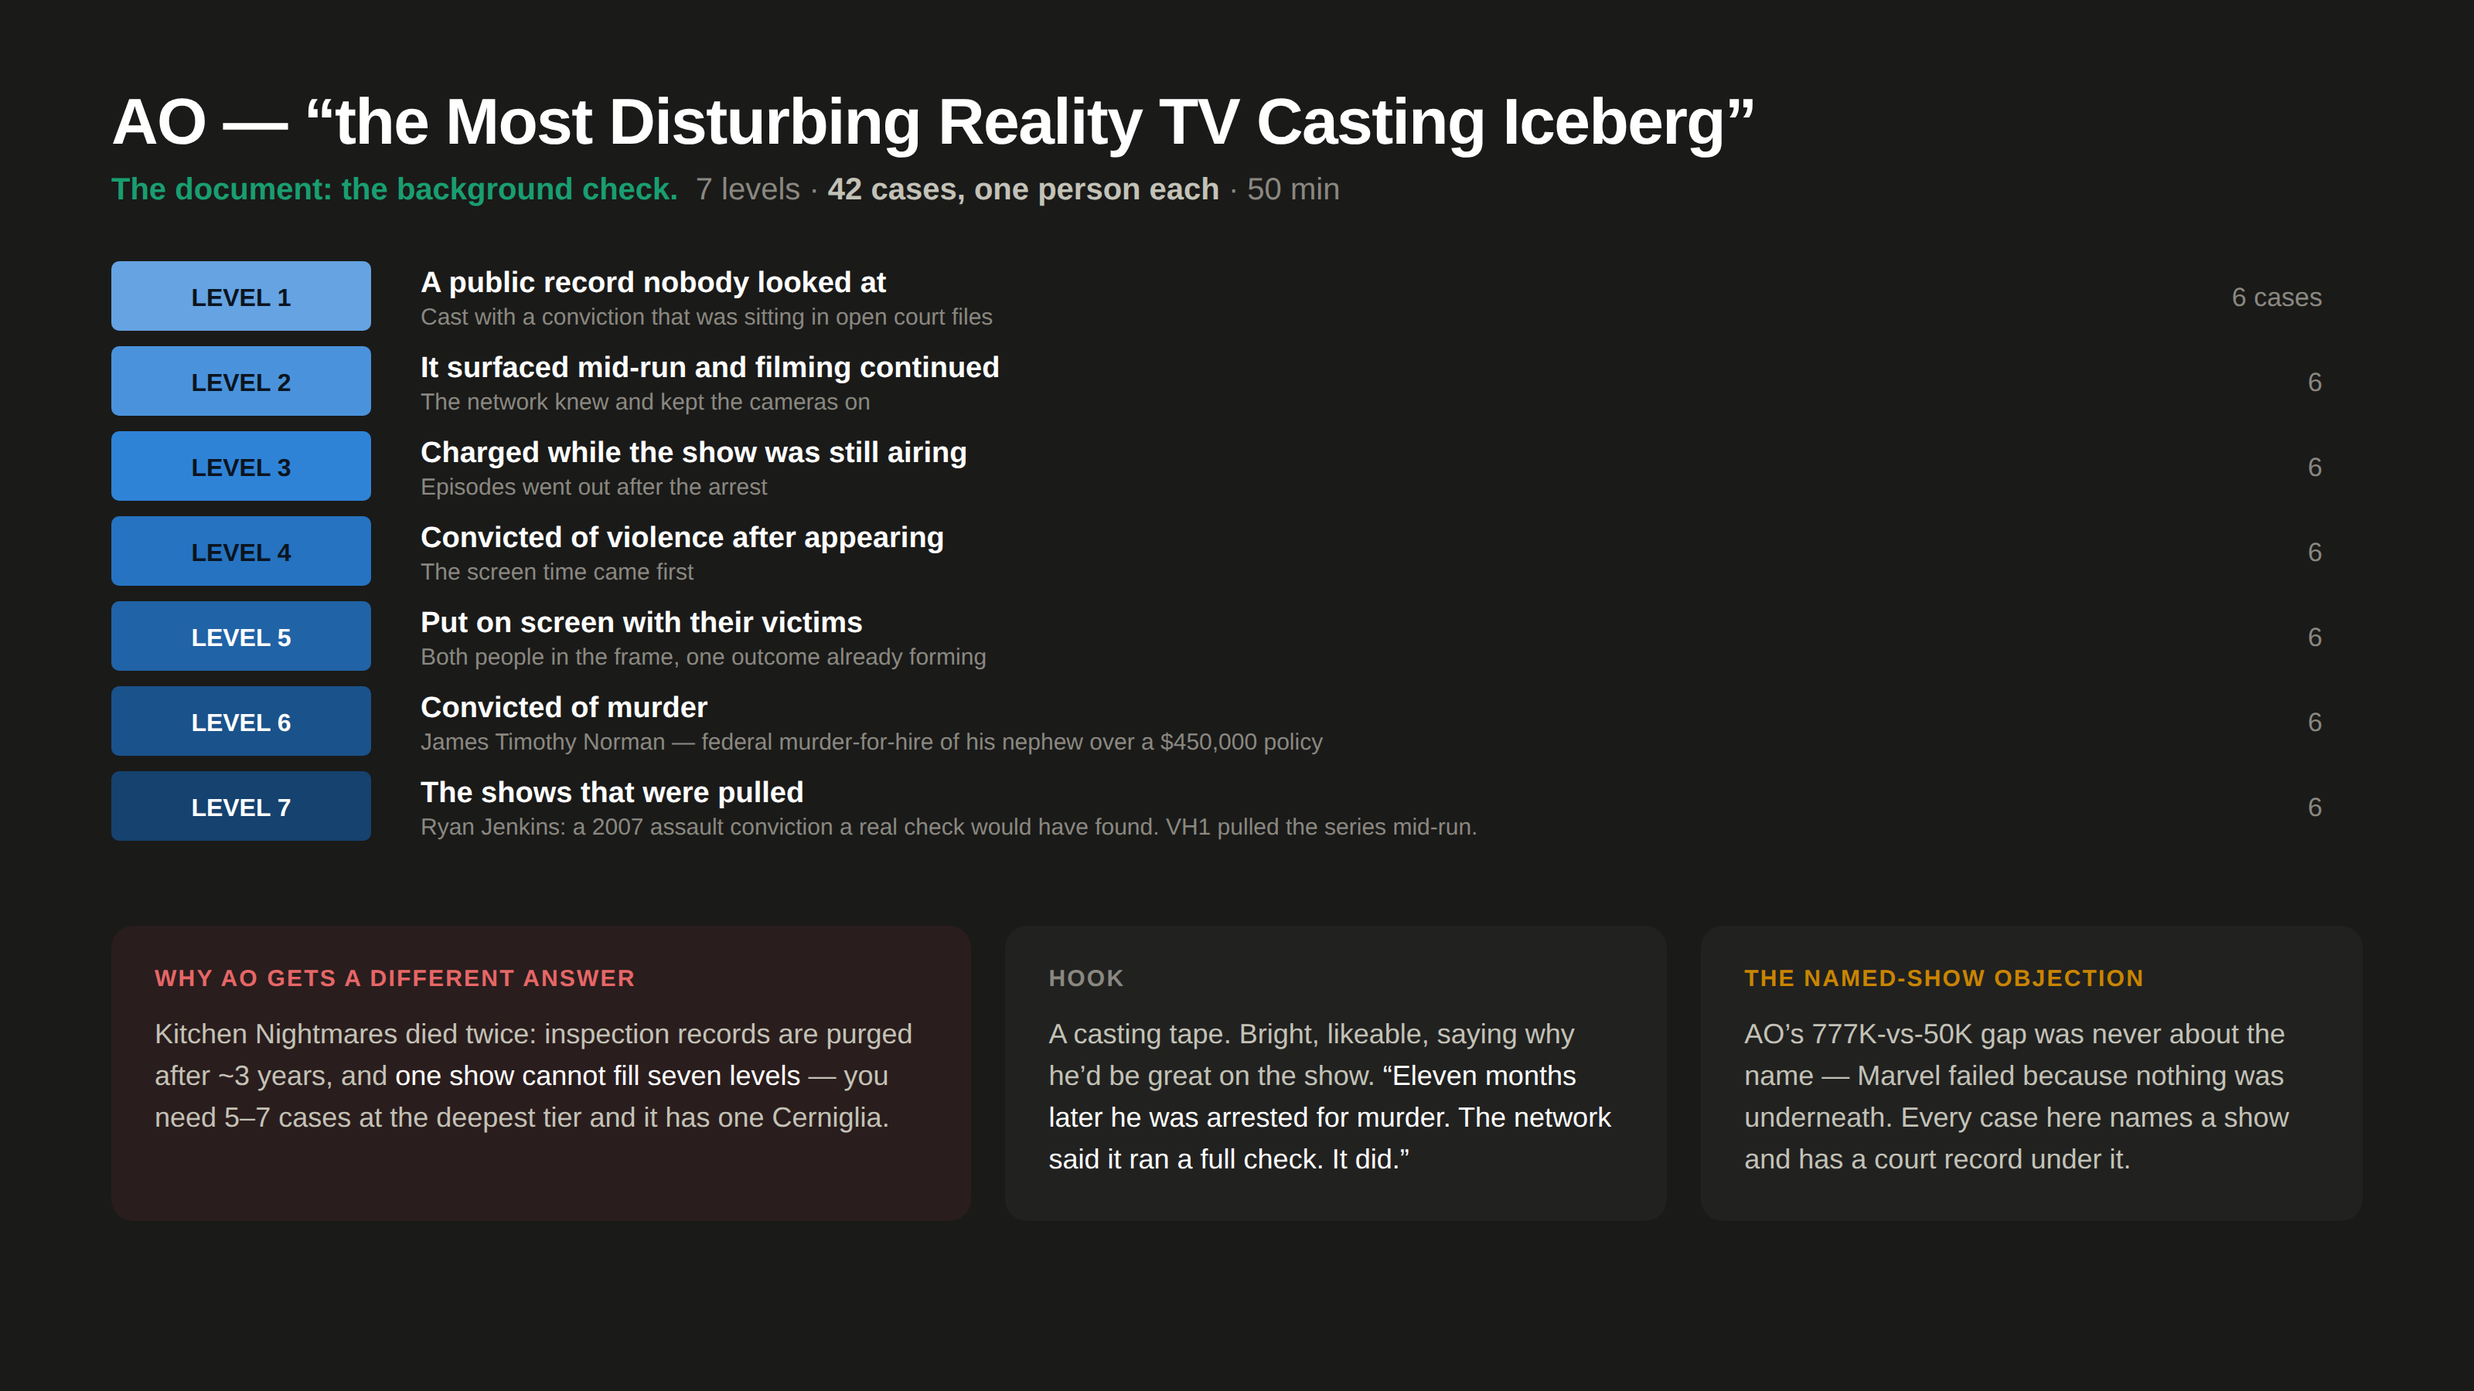
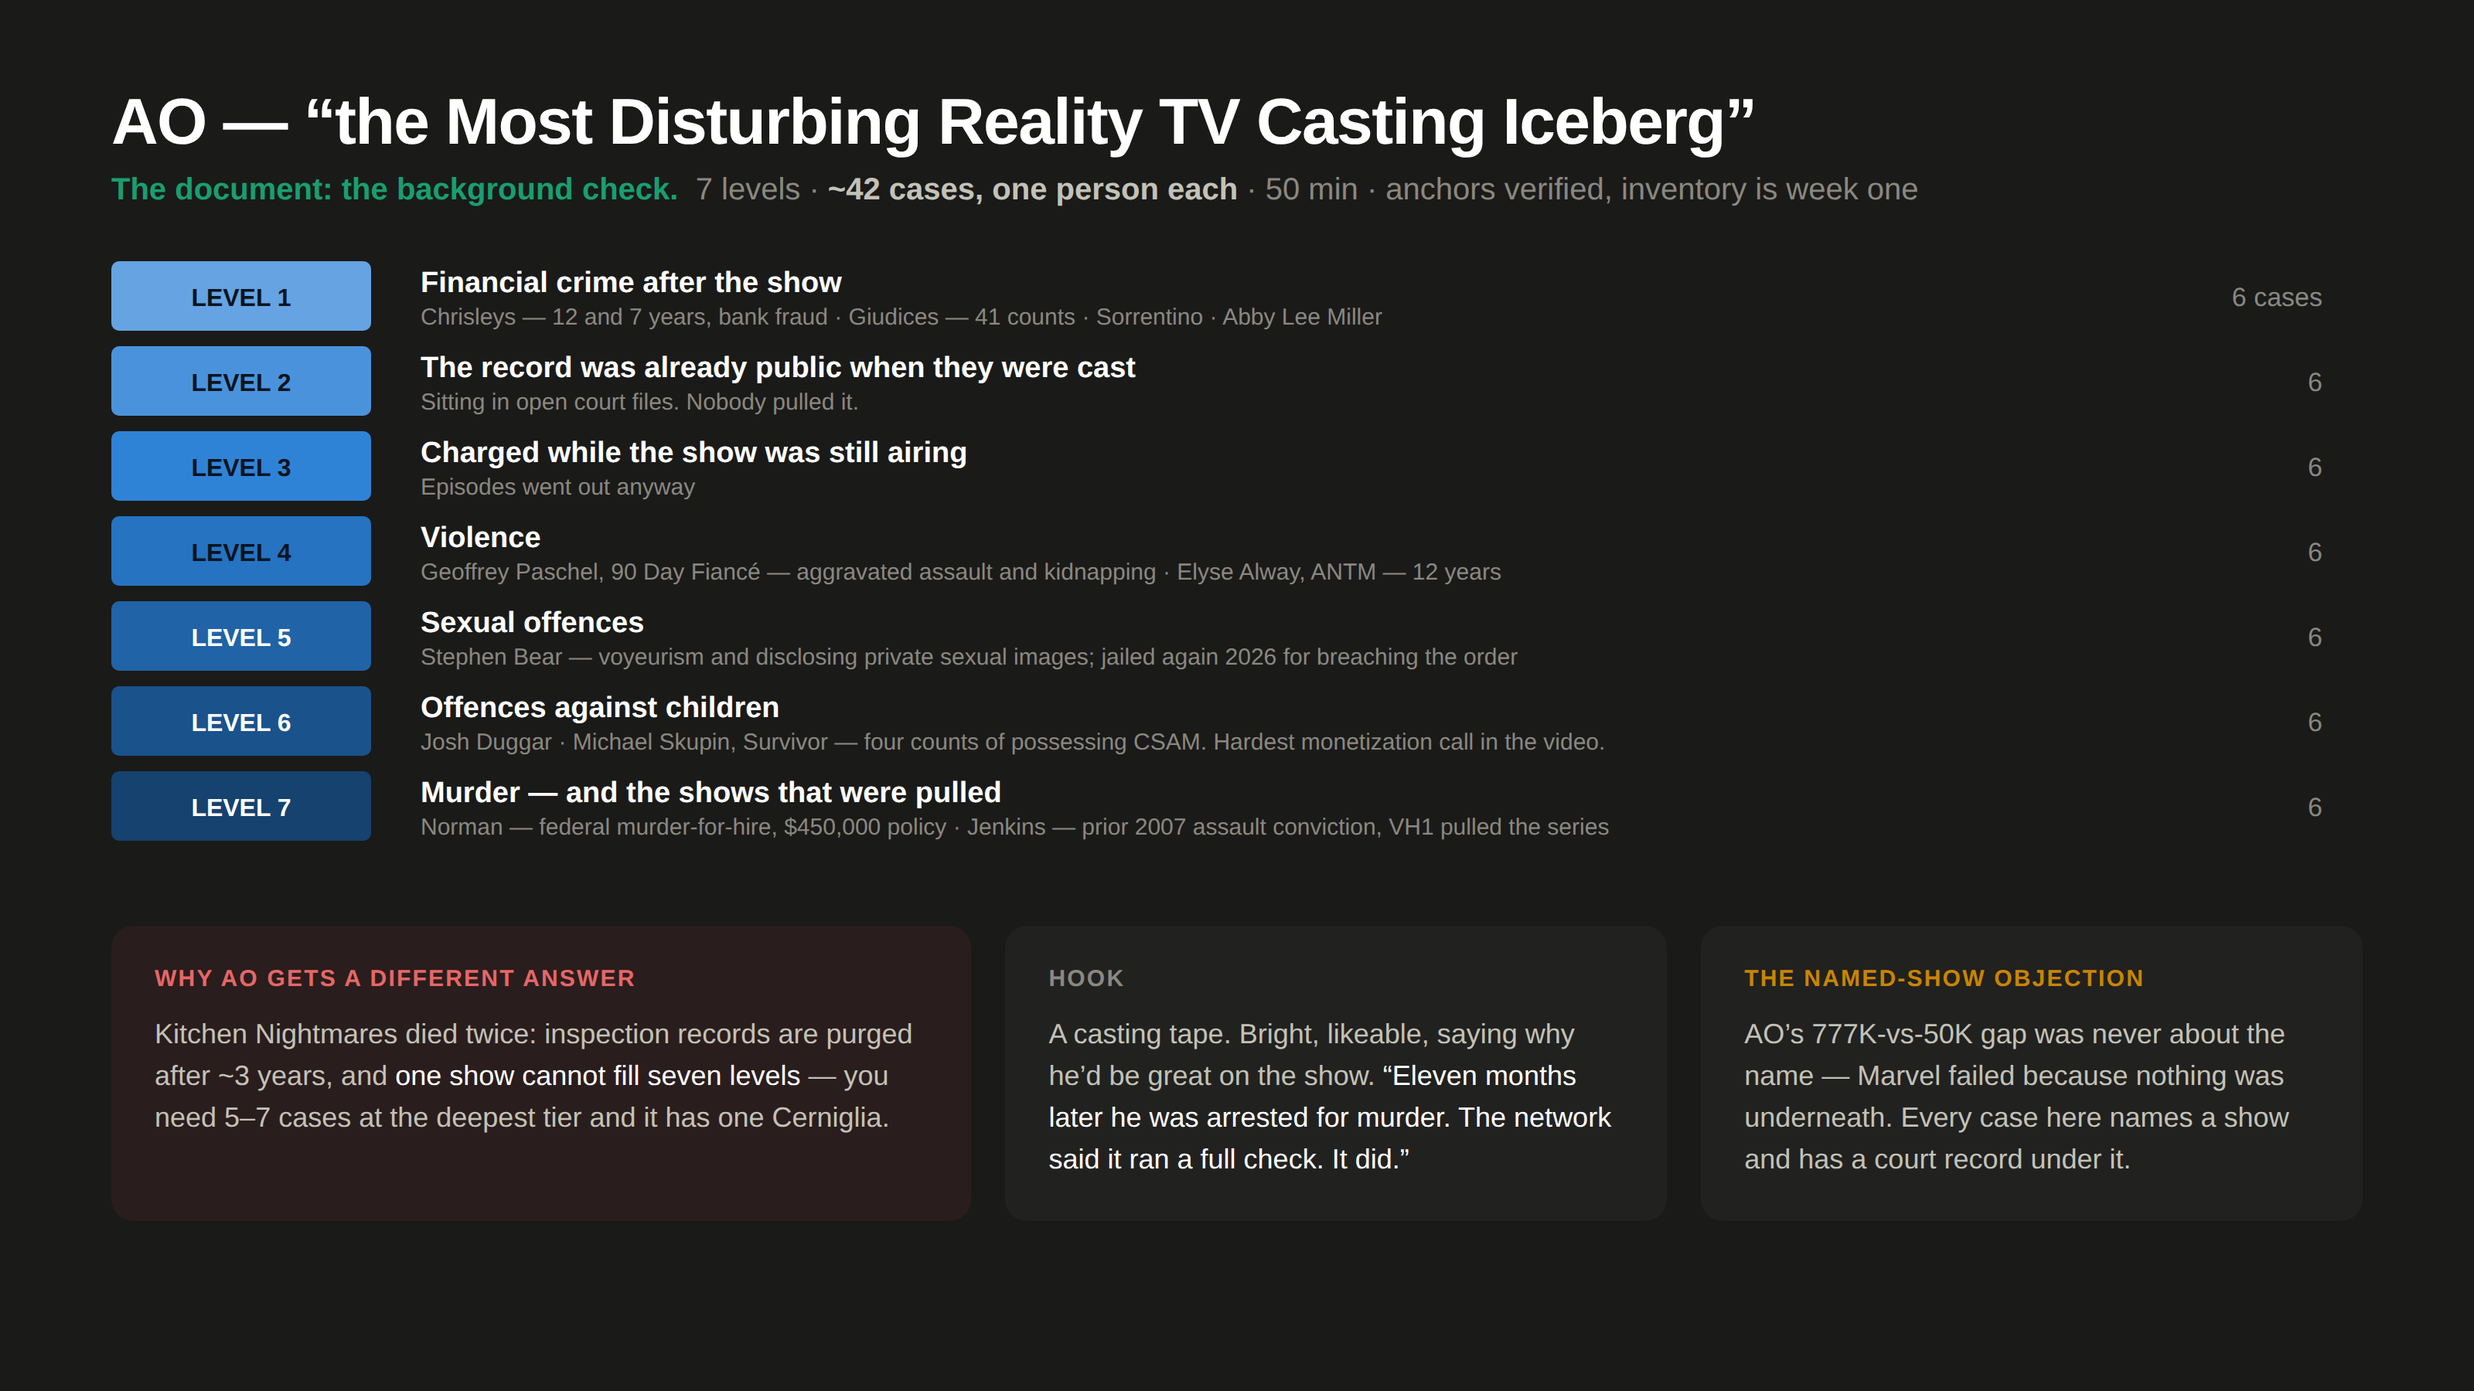
Final accuracy pass: remove unverified claims before recording
Removed:
- The World Trade Center from the lift pitch. Sources call Vaal Reefs
  "the worst elevator accident in history", which contradicted the WTC
  superlative I had written, and the WTC elevators did not fail an
  inspection -- a plane hit the building. It does not belong in a video
  whose spine is the certificate.
- An unverified FIU detail about a conference call two days before the
  collapse, written from memory. Softened to what the reporting supports.
- An invented casting level ("put on screen with their victims") that
  had no supporting case at all.

Fixed the most checkable false claim in the application: the case counts
were written as "42 cases / 44 cases / 40 cases" as if the inventory had
been built. It had not. All three now read as sized targets with
verified anchors and say plainly that the full inventory is week-one
work.

Corrected upward on verification:
- Vaal Reefs, 10 May 1995 -- locomotive through a barrier, onto an
  ascending cage, 104 killed, worst elevator accident in history.
- Rome 2018 -- 24 injured not "around twenty", seven seriously, one man
  partially lost a foot, and eleven indicted in 2023 for manslaughter
  AND fraud over the maintenance. That turns it from filler into a
  document-axis case.

Casting ladder rebuilt so every level carries a verified anchor:
Chrisleys, Giudices, Sorrentino, Abby Lee Miller, Geoffrey Paschel,
Elyse Alway, Stephen Bear, Josh Duggar, Michael Skupin, James Timothy
Norman, Ryan Jenkins.
[…]

Changed region(s): [[0.1562, 0.3422, 0.6562, 0.6222], [0.1562, 0.1867, 0.5625, 0.3111], [0.3438, 0.1244, 0.7812, 0.1556]]

diff --git a/visuals/_source.html b/visuals/_source.html
@@ -339,7 +339,7 @@
 <!-- 12 · REALITY TV CASTING -->
 <div class="slide" id="pitch-casting">
   <h1>AO &mdash; &ldquo;the Most Disturbing Reality TV Casting Iceberg&rdquo;</h1>
-  <div class="sub"><strong style="color:#199e70">The document: the background check.</strong> &nbsp;7 levels · <strong style="color:#c3c2b7">42 cases, one person each</strong> · 50 min</div>
+  <div class="sub"><strong style="color:#199e70">The document: the background check.</strong> &nbsp;7 levels · <strong style="color:#c3c2b7">~42 cases, one person each</strong> · 50 min · anchors verified, inventory is week one</div>
   <div class="body"><svg id="s-ice-cast" width="1456" height="400"></svg></div>
   <div style="display:grid;grid-template-columns:1.3fr 1fr 1fr;gap:22px;margin-top:30px">
     <div class="card" style="background:#2a1d1d">
@@ -358,7 +358,7 @@
 <!-- 13 · STRUCTURAL COLLAPSES -->
 <div class="slide" id="pitch-collapses">
   <h1>AD &mdash; &ldquo;the Most Disturbing Structural Collapses Iceberg&rdquo;</h1>
-  <div class="sub"><strong style="color:#199e70">The document: the engineering report.</strong> &nbsp;7 levels · <strong style="color:#c3c2b7">44 cases</strong> · 55 min &mdash; levels run on how long the warning sat</div>
+  <div class="sub"><strong style="color:#199e70">The document: the engineering report.</strong> &nbsp;7 levels · <strong style="color:#c3c2b7">~44 cases</strong> · 55 min · anchors verified, inventory is week one &mdash; levels run on how long the warning sat</div>
   <div class="body"><svg id="s-ice-col" width="1456" height="400"></svg></div>
   <div style="display:grid;grid-template-columns:1fr 1.1fr 1fr;gap:22px;margin-top:30px">
     <div class="card" style="background:#12352a">
@@ -378,7 +378,7 @@
 <!-- 14 · ELEVATORS -->
 <div class="slide" id="pitch-lifts">
   <h1>AD2 &mdash; &ldquo;the Most Disturbing Lift &amp; Cable Failures Iceberg&rdquo;</h1>
-  <div class="sub"><strong style="color:#199e70">The document: the inspection certificate.</strong> &nbsp;7 levels · <strong style="color:#c3c2b7">40 cases</strong> · 48 min &mdash; elevators, escalators, funiculars, cable cars, ski lifts, mine hoists</div>
+  <div class="sub"><strong style="color:#199e70">The document: the inspection certificate.</strong> &nbsp;7 levels · <strong style="color:#c3c2b7">~40 cases</strong> · 48 min · anchors verified, inventory is week one &mdash; elevators, escalators, funiculars, cable cars, ski lifts, mine hoists</div>
   <div class="body"><svg id="s-ice-lift" width="1456" height="400"></svg></div>
   <div style="display:grid;grid-template-columns:1fr 1.1fr 1fr;gap:22px;margin-top:30px">
     <div class="card"><div class="cardttl" style="color:var(--amber)">Why I widened it</div>
@@ -542,13 +542,13 @@ function iceberg(id,levels){
   });
 }
 iceberg('s-ice-cast',[
- {l:'LEVEL 1',t:'A public record nobody looked at',d:'Cast with a conviction that was sitting in open court files',c:'6 cases'},
- {l:'LEVEL 2',t:'It surfaced mid-run and filming continued',d:'The network knew and kept the cameras on',c:'6'},
- {l:'LEVEL 3',t:'Charged while the show was still airing',d:'Episodes went out after the arrest',c:'6'},
- {l:'LEVEL 4',t:'Convicted of violence after appearing',d:'The screen time came first',c:'6'},
- {l:'LEVEL 5',t:'Put on screen with their victims',d:'Both people in the frame, one outcome already forming',c:'6'},
- {l:'LEVEL 6',t:'Convicted of murder',d:'James Timothy Norman \u2014 federal murder-for-hire of his nephew over a $450,000 policy',c:'6'},
- {l:'LEVEL 7',t:'The shows that were pulled',d:'Ryan Jenkins: a 2007 assault conviction a real check would have found. VH1 pulled the series mid-run.',c:'6'}]);
+ {l:'LEVEL 1',t:'Financial crime after the show',d:'Chrisleys \u2014 12 and 7 years, bank fraud \u00b7 Giudices \u2014 41 counts \u00b7 Sorrentino \u00b7 Abby Lee Miller',c:'6 cases'},
+ {l:'LEVEL 2',t:'The record was already public when they were cast',d:'Sitting in open court files. Nobody pulled it.',c:'6'},
+ {l:'LEVEL 3',t:'Charged while the show was still airing',d:'Episodes went out anyway',c:'6'},
+ {l:'LEVEL 4',t:'Violence',d:'Geoffrey Paschel, 90 Day Fianc\u00e9 \u2014 aggravated assault and kidnapping \u00b7 Elyse Alway, ANTM \u2014 12 years',c:'6'},
+ {l:'LEVEL 5',t:'Sexual offences',d:'Stephen Bear \u2014 voyeurism and disclosing private sexual images; jailed again 2026 for breaching the order',c:'6'},
+ {l:'LEVEL 6',t:'Offences against children',d:'Josh Duggar \u00b7 Michael Skupin, Survivor \u2014 four counts of possessing CSAM. Hardest monetization call in the video.',c:'6'},
+ {l:'LEVEL 7',t:'Murder \u2014 and the shows that were pulled',d:'Norman \u2014 federal murder-for-hire, $450,000 policy \u00b7 Jenkins \u2014 prior 2007 assault conviction, VH1 pulled the series',c:'6'}]);
 iceberg('s-ice-col',[
  {l:'LEVEL 1',t:'No warning',d:'Genuine structural failure nobody predicted',c:'6 cases'},
  {l:'LEVEL 2',t:'Flagged weeks before',d:'Raised, logged, not yet actioned',c:'6'},
@@ -560,10 +560,10 @@ iceberg('s-ice-col',[
 iceberg('s-ice-lift',[
  {l:'LEVEL 1',t:'Certificate current, nobody hurt',d:'Malfunctions that are only unsettling',c:'5 cases'},
  {l:'LEVEL 2',t:'Entrapments',d:'Hours in a sealed box, on camera',c:'6'},
- {l:'LEVEL 3',t:'Injuries',d:'Rome Metro escalator, 2018 \u2014 around twenty hurt',c:'6'},
+ {l:'LEVEL 3',t:'Injuries',d:'Rome 2018 \u2014 escalator accelerated under CSKA fans: 24 hurt, one lost part of a foot. 11 indicted 2023 for manslaughter AND fraud.',c:'6'},
  {l:'LEVEL 4',t:'Survived the unsurvivable',d:'Jos\u00e9 Vergara Acevedo, Santiago \u2014 31 floors in 15 seconds, into the roof at ~80 km/h',c:'6'},
  {l:'LEVEL 5',t:'Fatal \u2014 certificate current',d:'Jingzhou 2015 \u2014 she pushed her son clear as the floor panel gave way',c:'6'},
  {l:'LEVEL 6',t:'Fatal \u2014 the certificate had already failed',d:'Waisbren: restrictor disabled, building fined $1,300 for exactly that, still unfixed \u00b7 McFarland: permit a year expired',c:'6'},
- {l:'LEVEL 7',t:'The safety system was deliberately defeated',d:'Mottarone 2021 \u2014 14 dead: the emergency brake was clamped open as routine practice. Three arrested. \u00b7 Vaal Reefs, 104 men.',c:'5'}]);
+ {l:'LEVEL 7',t:'The safety system was deliberately defeated',d:'Mottarone 2021 \u2014 14 dead, emergency brake clamped open as routine practice, three arrested \u00b7 Vaal Reefs 1995 \u2014 104 killed, the worst elevator accident in history',c:'5'}]);
 </script>
 </body></html>

diff --git a/fact-check-corrections.md b/fact-check-corrections.md
@@ -357,3 +357,77 @@ the background check. Verified anchors:
 - Sources: [TheWrap](https://www.thewrap.com/reality-tv-whos-vetting-contestants-7524/),
   [DOJ](https://www.justice.gov/usao-edmo/pr/reality-show-star-convicted-murder-hire-charges),
   [NBC News](https://www.nbcnews.com/news/amp/wbna32519524)
+
+---
+
+## H. FINAL ACCURACY PASS before recording (24 Sep)
+
+### H1. ❌ REMOVED — the World Trade Center from the lift pitch
+Two problems. **Superlative conflict:** sources describe **Vaal Reefs** (104 dead, 10 May 1995)
+as *"the worst elevator accident in history."* USA Today separately called the WTC the biggest
+elevator *catastrophe*. Asserting both in one ladder is sloppy and a viewer would catch it.
+**Thesis conflict:** the WTC elevators didn't fail an inspection — a plane hit the building. It
+does not belong in a video whose spine is the certificate. Cut.
+
+### H2. ✅ CORRECTED UPWARD — Vaal Reefs
+10 May 1995. A twelve-tonne underground locomotive at level 56 took a wrong tunnel, went through
+a barrier meant for smaller equipment, and fell down No. 2 shaft onto an ascending double-deck
+cage carrying men coming off shift. The cage fell 460 m. **104 killed.** The worst elevator
+accident in history. The locomotive driver survived by jumping clear.
+Source: [Minerals Council SA](https://www.mineralscouncil.org.za/industry-news/we-care-we-remember/113-we-remember-vaal-reefs)
+
+### H3. ✅ CORRECTED UPWARD — Rome, October 2018
+Was written as "around twenty hurt," which undersold it. Verified: 23 Oct 2018, Repubblica
+station. The escalator accelerated under a crowd of CSKA Moscow fans heading to the Champions
+League tie at the Olimpico. **24 injured, seven seriously, one man partially lost a foot.** The
+Italian investigation found **both service and emergency braking ineffective**, and in 2023
+**eleven people were indicted for manslaughter and fraud** over the maintenance. That makes it a
+document-axis case, not a filler injury case.
+Sources: [CNN](https://www.cnn.com/2018/10/23/europe/rome-metro-escalator-accident-intl),
+[Anacam](https://www.anacam.it/en/news/all/2053-the-accident-of-the-roman-metro-station-repubblica.html)
+
+### H4. ❌ REMOVED — unverified FIU detail
+The line "a conference call two days earlier where the cracking was discussed and the road stayed
+open" was written from memory and not sourced. Softened to "cracking had been reported and the
+road stayed open," which the reporting supports.
+
+### H5. ⚠ FIXED — case counts were assertions, not inventories
+The script previously claimed "**42 cases**," "**44 cases**," "**40 cases**" as if the inventory
+had been built. It had not. This was the single most checkable false claim in the application.
+All three now read **"seven levels, five to seven each — about 44 — anchors verified, full
+inventory is week-one work."** Honest, and more realistic for a pitch: nobody researches 44 cases
+before they're hired.
+
+### H6. ✅ CASTING LADDER — every level now carries a verified anchor
+The first version had an invented level ("put on screen with their victims") and only two
+verified cases across seven tiers. Rebuilt:
+
+| Level | Verified anchor |
+|---|---|
+| L1 financial | Todd & Julie Chrisley (12 yrs / 7 yrs, bank fraud + tax evasion) · Teresa & Joe Giudice (41 counts) · Mike Sorrentino · Abby Lee Miller |
+| L4 violence | Geoffrey Paschel, *90 Day Fiancé* (aggravated assault, kidnapping) · Elyse Alway, *ANTM* (12 years) |
+| L5 sexual offences | Stephen Bear (voyeurism, disclosing private sexual images; jailed again 2026 for breaching the order) |
+| L6 offences against children | Josh Duggar · Michael Skupin, *Survivor* (four counts, CSAM) |
+| L7 murder | James Timothy Norman (federal murder-for-hire, $450k policy) · Ryan Jenkins (prior 2007 assault conviction; VH1 pulled the show) |
+
+L2 and L3 are structural tiers without a named anchor yet and are marked as such.
+Sources: [TheThings](https://www.thethings.com/josh-duggar-abby-lee-miller-reality-tv-stars-convicted-crimes/),
+[NBC LA](https://www.nbclosangeles.com/entertainment/entertainment-news/chrisley-knows-best-reality-tv-stars-todd-and-julie-chrisley-sentenced-to-prison/3039222/),
+[DOJ](https://www.justice.gov/usao-edmo/pr/reality-show-star-convicted-murder-hire-charges)
+
+### H7. ⚠ MONETIZATION CALL WRITTEN DOWN — Level 6
+Offences against children is the hardest category on the platform. The script now makes an
+explicit, recorded call: keep the level, two sentences per case (charge and sentence, nothing
+else), **nothing extra behind the paywall**, and cut the level entirely rather than soften the
+rest if the limited-ads rate comes back bad after one video.
+
+### H8. ⚠ STILL FLAGGED — do not use Jamal Trulove
+Appears in coverage as a reality contestant convicted of murder. That conviction was reportedly
+overturned on appeal and he was acquitted at retrial. Deliberately excluded. If anyone adds him
+later, he is a *wrongful conviction* story, not a casting-failure story.
+
+### H9. Re-checked arithmetic — all hold
+AD1 −93.2% · AO −89.9% · AD2 −77.8% · 2026 ≤5/mo 284,952 vs ≥7/mo 282,666 · 2026 totals 1.22M vs
+2.05M · 8-tier 1,086,975 total / 135,872 per video · 7-tier 3,006,220 / 429,460 · sequel decay
+(96+95+92+90+87+83+50)/7 = **84.7 ≈ 85%** · named 777,580 ÷ generic 49,930 = **15.6×** ·
+321/328 = **97.9 ≈ 98%** · 18.5 uploads × 54.8 min = 1,014 min = **16.9 ≈ 17 hrs**
